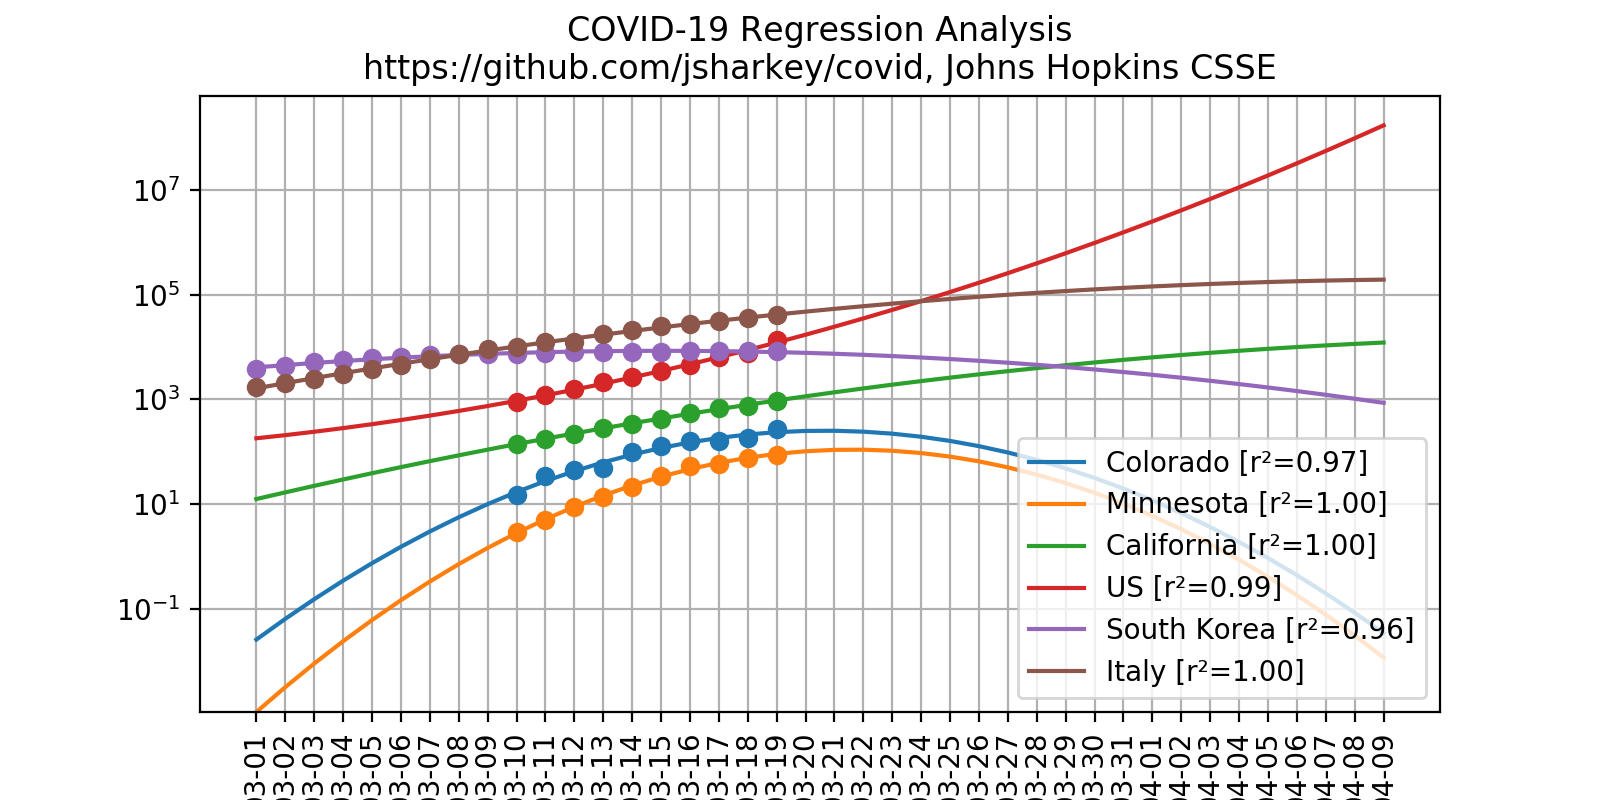
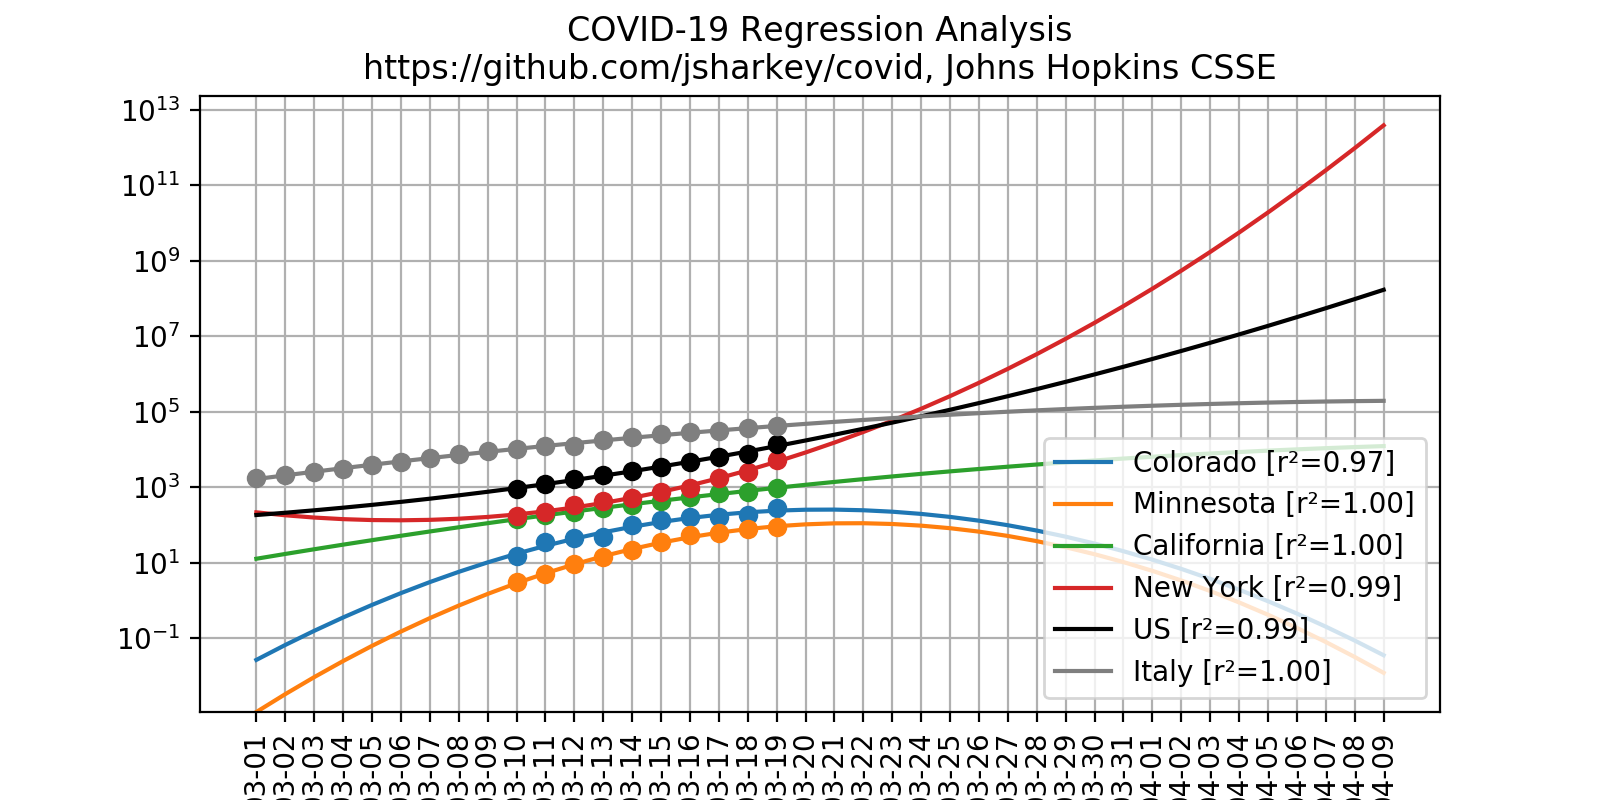
Add NY.

diff --git a/covid.py b/covid.py
@@ -89,10 +89,10 @@ def plot(country=lambda c: True, state=lambda s: True, color=None, label=None):
 plot(country=lambda c: c == "US", state=lambda s: s == "Colorado",   color="C0", label="Colorado")
 plot(country=lambda c: c == "US", state=lambda s: s == "Minnesota",  color="C1", label="Minnesota")
 plot(country=lambda c: c == "US", state=lambda s: s == "California", color="C2", label="California")
-plot(country=lambda c: c == "US",                                    color="C3", label="US")
+plot(country=lambda c: c == "US", state=lambda s: s == "New York",   color="C3", label="New York")
 
-plot(country=lambda c: c == "Korea, South",                          color="C4", label="South Korea")
-plot(country=lambda c: c == "Italy",                                 color="C5", label="Italy")
+plot(country=lambda c: c == "US",                                    color="k",  label="US")
+plot(country=lambda c: c == "Italy",                                 color="C7", label="Italy")
 
 plt.xticks(x_data_ext, [ datetime.datetime.strftime(start+datetime.timedelta(d), "%m-%d") for d in x_data_ext ], rotation=90)
 plt.yscale("log")
